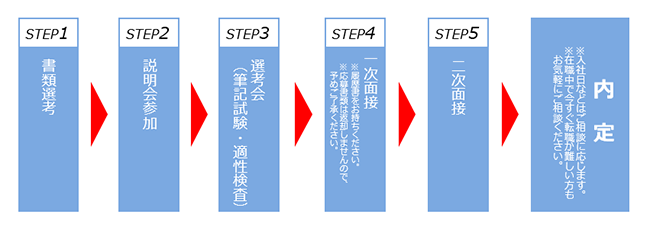
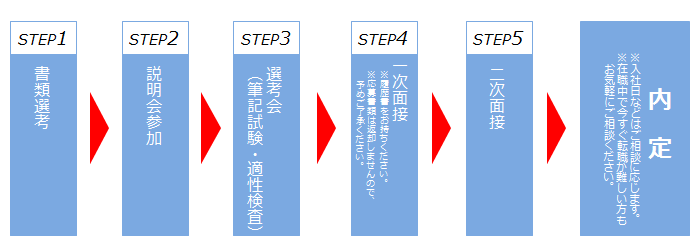
width600削除

Changed region(s): [[0.0, 0.0598, 0.9846, 0.9573], [0.4308, 0.5983, 0.4615, 0.6581]]

diff --git a/src/info/mid1/sales.html b/src/info/mid1/sales.html
@@ -100,7 +100,7 @@ title: 中途営業職 募集要項 | IHS中途採用サイト
 
                                 <tr>
                                     <th>選考フロー</th>
-                                    <td><center><img src="/recruit/image/info/nmid_em.png" class="flow" width="600px"></center></td>
+                                    <td><center><img src="/recruit/image/info/nmid_em.png" class="flow"></center></td>
                                 </tr>
                             </tbody>
                         </table>

diff --git a/src/info/mid1/technology.html b/src/info/mid1/technology.html
@@ -107,7 +107,7 @@ title: 中途技術職 募集要項 | IHS中途採用サイト
 
                                 <tr>
                                     <th>選考フロー</th>
-                                    <td><center><img src="/recruit/image/info/nmid_em.png" class="flow" width="600px"></center></td>
+                                    <td><center><img src="/recruit/image/info/nmid_em.png" class="flow"></center></td>
                                 </tr>
                             </tbody>
                         </table>

diff --git a/src/info/mid1/win.html b/src/info/mid1/win.html
@@ -112,7 +112,7 @@ title: 中途技術職 募集要項 | IHS中途採用サイト
 
                                 <tr>
                                     <th>選考フロー</th>
-                                    <td><center><img src="/recruit/image/info/nmid_em.png" class="flow" width="600px"></center></td>
+                                    <td><center><img src="/recruit/image/info/nmid_em.png" class="flow"></center></td>
                                 </tr>
                             </tbody>
                         </table>
